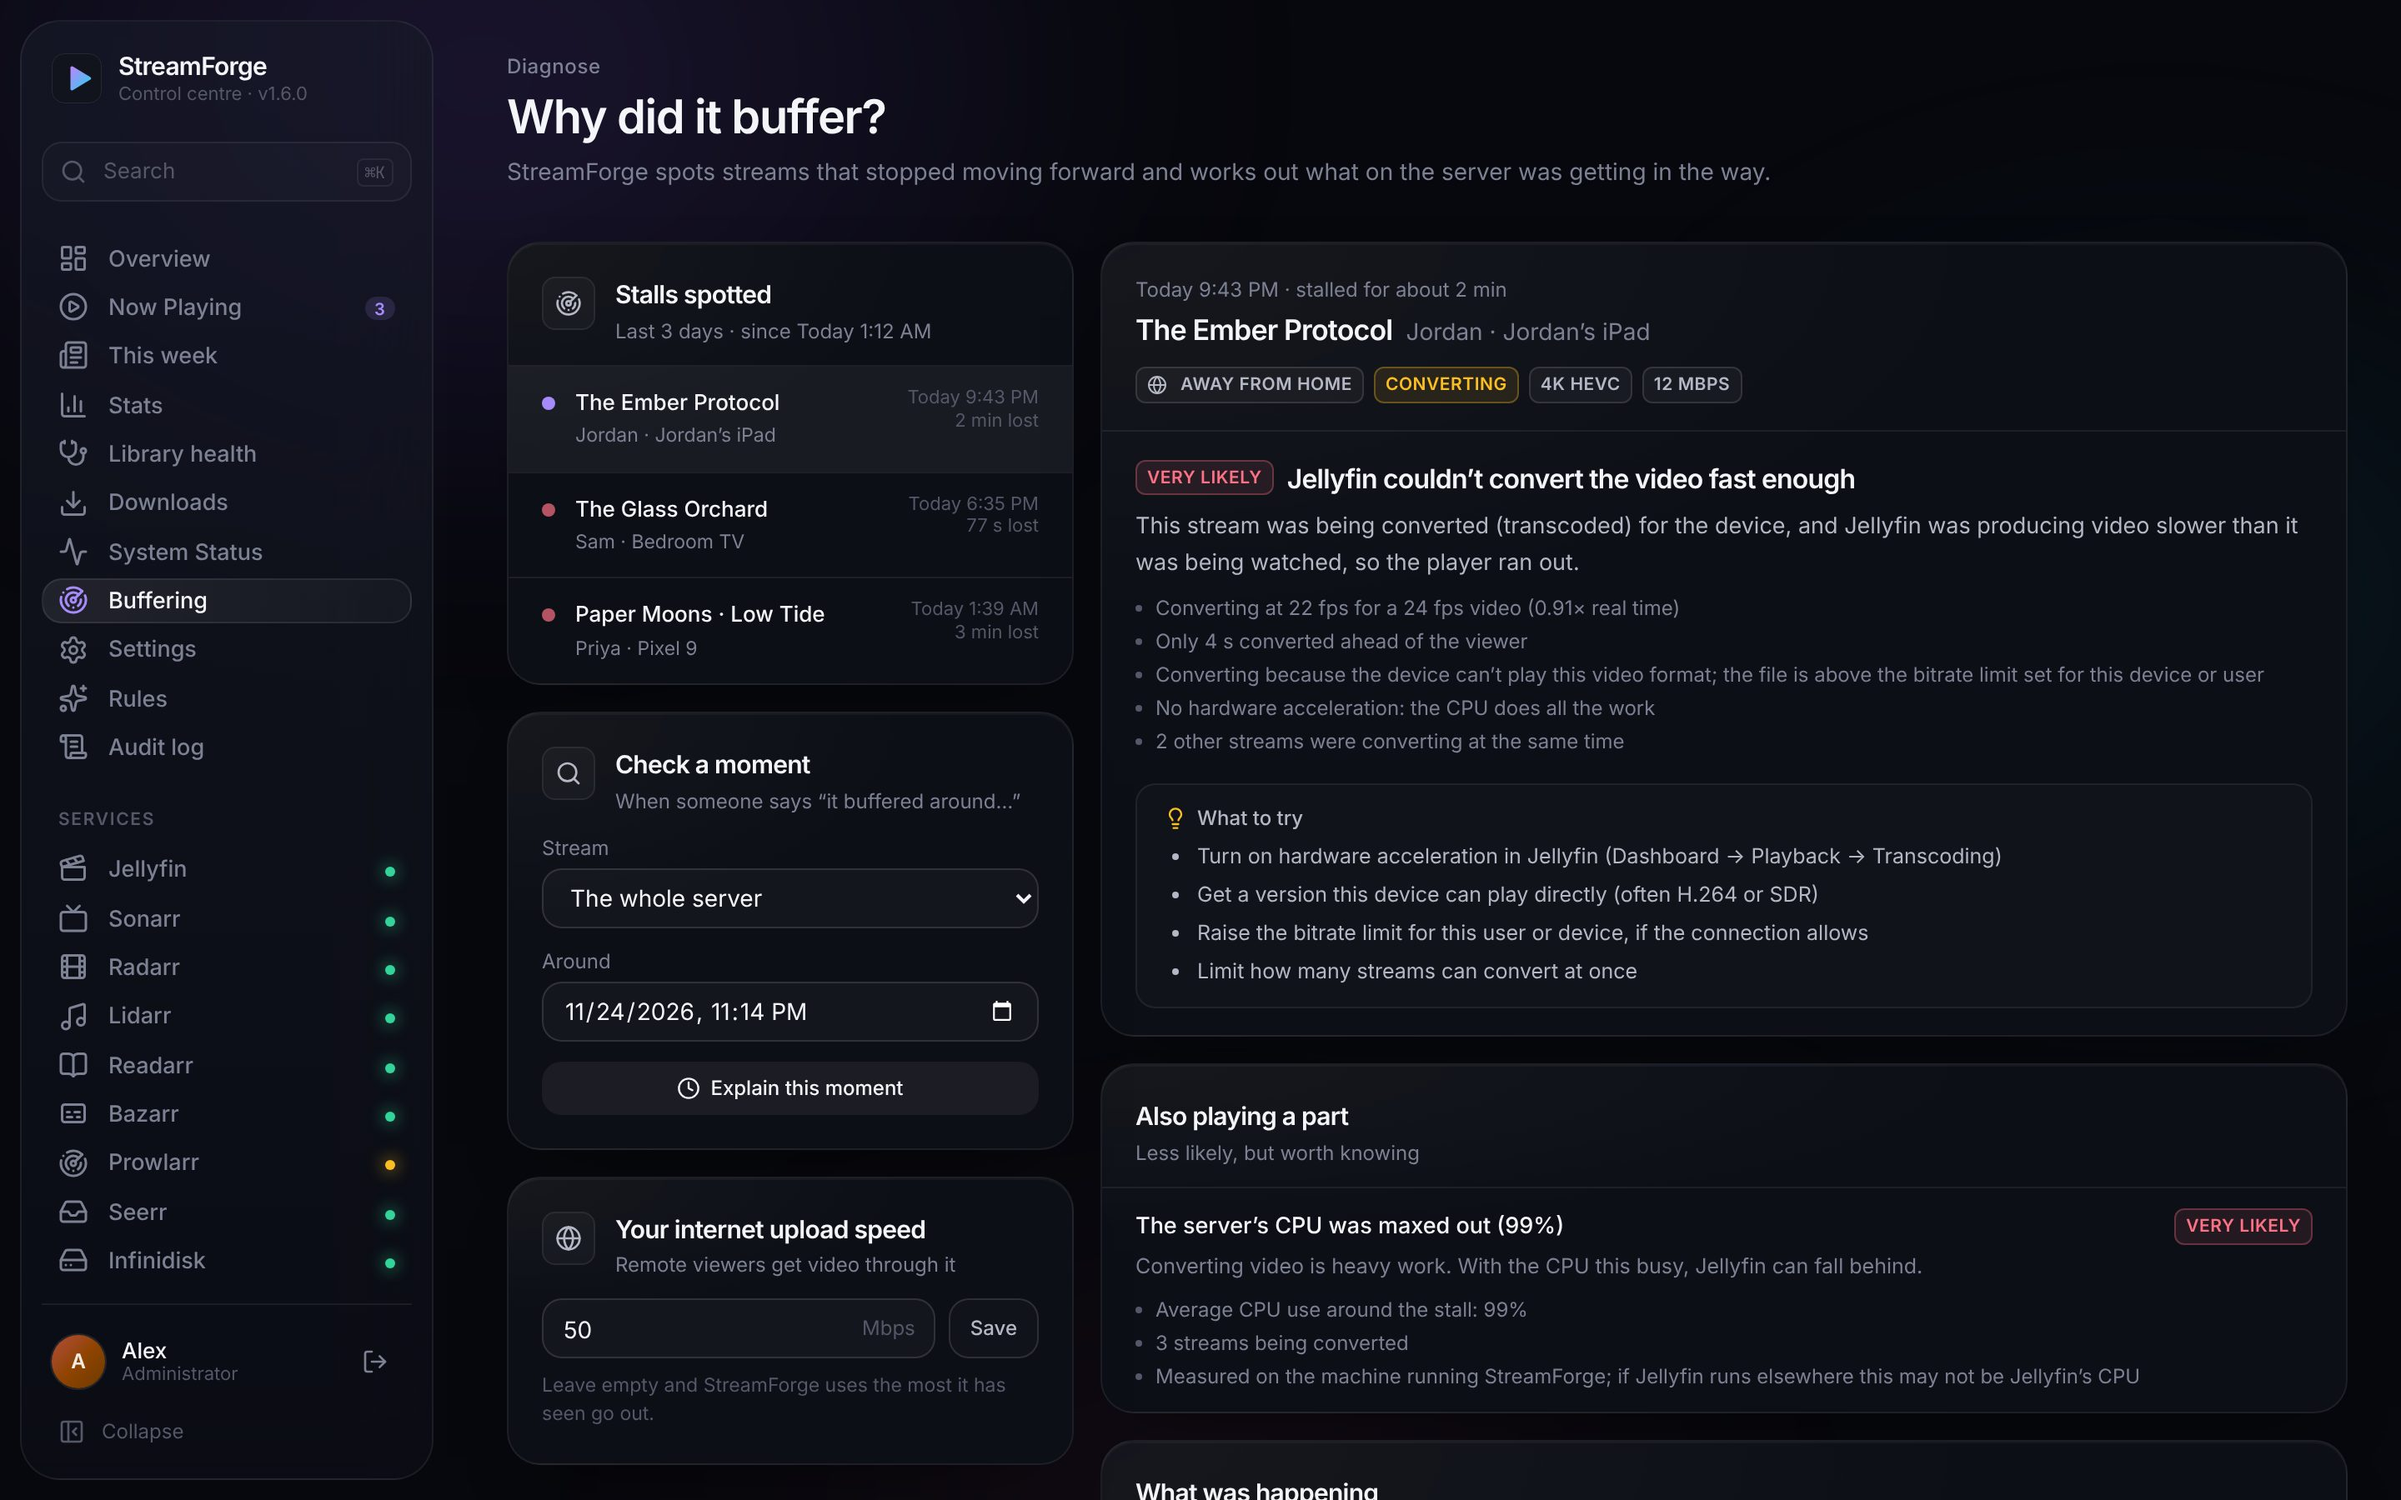
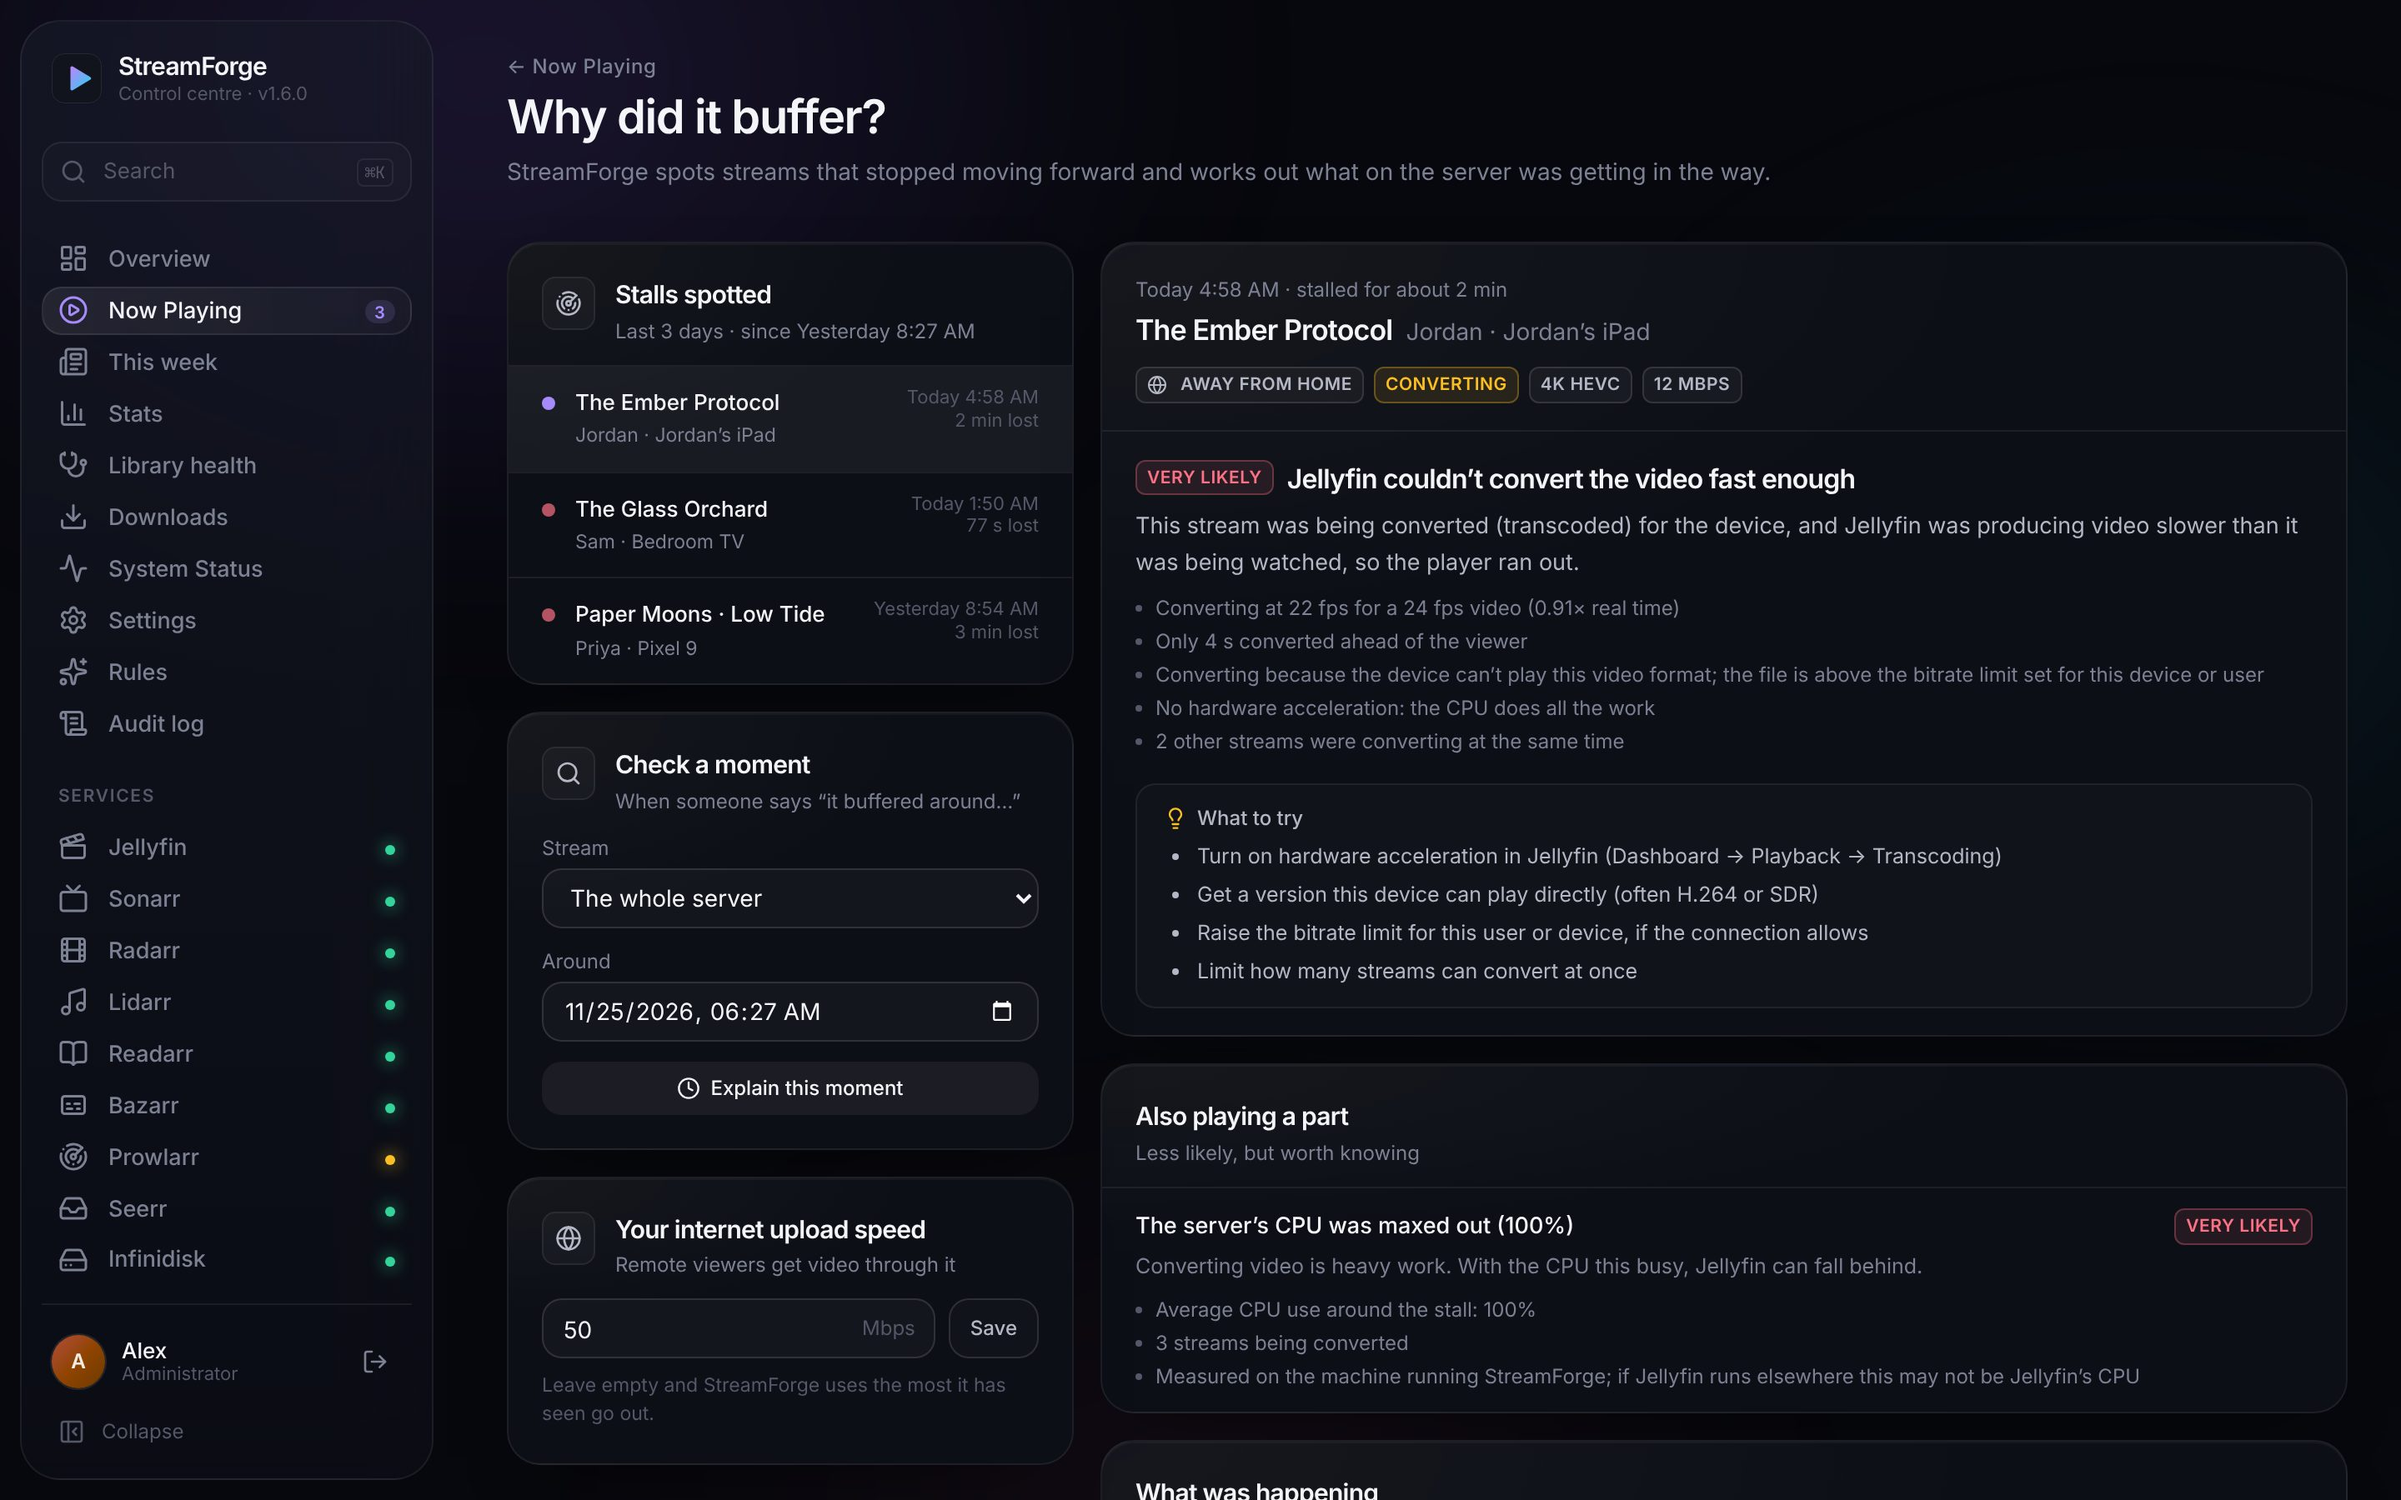
refactor: open the buffering diagnosis from Now Playing
The sidebar had a "Buffering" item for a page admins open now and then.
It now lives at /now-playing/buffering, opened from a "Why did it
buffer?" button on Now Playing that shows how many streams stalled in the
last day. Now Playing stays highlighted in the sidebar while it's open,
and ⌘K can still jump straight to it.

Claude-Session: https://claude.ai/code/session_01FvSRRoZoKrJvLdg5wmccnJ

diff --git a/src/pages/NowPlaying.tsx b/src/pages/NowPlaying.tsx
@@ -1,5 +1,6 @@
 import { AnimatePresence } from 'motion/react';
-import { PlayCircle, Repeat, Zap } from 'lucide-react';
+import { Link } from 'react-router';
+import { PlayCircle, Radar, Repeat, Zap } from 'lucide-react';
 import { useNowPlaying } from '@/hooks/queries';
 import { PageHeader } from '@/components/layout/PageHeader';
 import { StreamCard } from '@/components/widgets/StreamCard';
@@ -9,6 +10,7 @@ import { Card } from '@/components/ui/Card';
 import { StatTile } from '@/components/ui/Stat';
 import { Loader } from '@/components/ui/Loader';
 import { useAuth } from '@/hooks/useAuth';
+import { useDiagnosis } from '@/hooks/useDiagnosis';
 import { PlaybackGuardCard } from '@/components/widgets/PlaybackGuardCard';
 
 export default function NowPlayingPage() {
@@ -19,7 +21,12 @@ export default function NowPlayingPage() {
   const users = new Set(streams.map((s) => s.user.name)).size;
   return (
     <>
-      <PageHeader eyebrow="Jellyfin" title="Now Playing" description="Every active stream across your server, updated live." />
+      <PageHeader
+        eyebrow="Jellyfin"
+        title="Now Playing"
+        description="Every active stream across your server, updated live."
+        actions={user?.isAdmin ? <BufferingLink /> : undefined}
+      />
       <div className="mb-5 grid grid-cols-1 gap-3 sm:grid-cols-3">
         <StatTile label="Active streams" value={q.data ? streams.length : undefined} icon={PlayCircle} accent="var(--color-brand)" />
         <StatTile label="Direct play" value={q.data ? streams.length - transcodes : undefined} icon={Zap} accent="var(--color-ok)" hint={q.data ? `${users} ${users === 1 ? 'viewer' : 'viewers'}` : undefined} />
@@ -49,5 +56,25 @@ export default function NowPlayingPage() {
       )}
       {user?.isAdmin && <div className="mt-5"><PlaybackGuardCard /></div>}
     </>
+  );
+}
+
+/** Admins: the way into the buffering diagnosis, with stalls from the last day. */
+function BufferingLink() {
+  const d = useDiagnosis();
+  const recent = d.data?.incidents.filter((i) => i.start > Date.now() - 86_400_000).length ?? 0;
+  return (
+    <Link
+      to="/now-playing/buffering"
+      className="inline-flex h-9 items-center gap-2 rounded-xl border border-line-strong bg-white/[0.02] px-3.5 text-[13px] font-medium text-ink-2 transition hover:bg-white/[0.06] hover:text-ink"
+    >
+      <Radar className="size-4" />
+      Why did it buffer?
+      {recent > 0 && (
+        <span className="rounded-full bg-bad/15 px-1.5 py-px text-[10.5px] font-semibold text-bad tabular" title={`${recent} stall${recent === 1 ? '' : 's'} in the last 24 hours`}>
+          {recent}
+        </span>
+      )}
+    </Link>
   );
 }

diff --git a/src/components/layout/Sidebar.tsx b/src/components/layout/Sidebar.tsx
@@ -1,6 +1,6 @@
 import { NavLink } from 'react-router';
 import { AnimatePresence, motion } from 'motion/react';
-import { Activity, BarChart3, Download, LayoutDashboard, Newspaper, Stethoscope, LogOut, PanelLeftClose, PanelLeftOpen, PlayCircle, Radar, ScrollText, Search, Settings, Sparkles } from 'lucide-react';
+import { Activity, BarChart3, Download, LayoutDashboard, Newspaper, Stethoscope, LogOut, PanelLeftClose, PanelLeftOpen, PlayCircle, ScrollText, Search, Settings, Sparkles } from 'lucide-react';
 import { useAuth } from '@/hooks/useAuth';
 import { useCanSee, useHealth, useNowPlaying, useServiceConfig } from '@/hooks/queries';
 import { jfUserImage } from '@/lib/api';
@@ -151,7 +151,6 @@ export function Sidebar({
         {canSee('library') && <NavItem to="/library" icon={Stethoscope} label="Library health" collapsed={collapsed} onNavigate={onNavigate} />}
         {canSee('downloads') && config.data?.downloadClients && <NavItem to="/downloads" icon={Download} label="Downloads" collapsed={collapsed} onNavigate={onNavigate} />}
         {canSee('system') && <NavItem to="/system" icon={Activity} label="System Status" collapsed={collapsed} onNavigate={onNavigate} />}
-        {user?.isAdmin && <NavItem to="/diagnose" icon={Radar} label="Buffering" collapsed={collapsed} onNavigate={onNavigate} />}
         {user?.isAdmin && <NavItem to="/settings" icon={Settings} label="Settings" collapsed={collapsed} onNavigate={onNavigate} />}
         {user?.isAdmin && <NavItem to="/rules" icon={Sparkles} label="Rules" collapsed={collapsed} onNavigate={onNavigate} />}
         {user?.isAdmin && <NavItem to="/audit" icon={ScrollText} label="Audit log" collapsed={collapsed} onNavigate={onNavigate} />}

diff --git a/src/components/layout/CommandPalette.tsx b/src/components/layout/CommandPalette.tsx
@@ -16,6 +16,7 @@ import {
   Search,
   Send,
   Settings,
+  Radar,
   Sparkles,
   Stethoscope,
   UserRound,
@@ -55,6 +56,7 @@ function usePages(): PageCmd[] {
     if (user?.isAdmin) {
       out.push({ key: 'p:/settings', label: 'Settings', path: '/settings', icon: Settings, keywords: 'configure services api key notifications backup' });
       out.push({ key: 'p:/audit', label: 'Audit log', path: '/audit', icon: ScrollText, keywords: 'security history changes' });
+      out.push({ key: 'p:/now-playing/buffering', label: 'Why did it buffer?', path: '/now-playing/buffering', icon: Radar, keywords: 'buffering stall lag stutter diagnose' });
       out.push({ key: 'p:/rules', label: 'Rules', path: '/rules', icon: Sparkles, keywords: 'automation alerts if then' });
     }
     for (const id of Object.keys(SERVICES) as ServiceId[]) {

diff --git a/src/pages/Diagnose.tsx b/src/pages/Diagnose.tsx
@@ -1,3 +1,4 @@
+import { Link } from 'react-router';
 import { useEffect, useMemo, useState, type FormEvent } from 'react';
 import { CartesianGrid, Line, LineChart, ReferenceArea, ReferenceLine, ResponsiveContainer, Tooltip, XAxis, YAxis } from 'recharts';
 import { CircleAlert, Clock, Globe, House, Lightbulb, Radar, Search, ShieldAlert } from 'lucide-react';
@@ -68,7 +69,7 @@ export default function DiagnosePage() {
   return (
     <>
       <PageHeader
-        eyebrow="Diagnose"
+        eyebrow={<Link to="/now-playing" className="transition hover:text-ink">← Now Playing</Link>}
         title="Why did it buffer?"
         description="StreamForge spots streams that stopped moving forward and works out what on the server was getting in the way."
       />

diff --git a/src/App.tsx b/src/App.tsx
@@ -108,7 +108,7 @@ const router = createBrowserRouter([
       { path: '/library', element: page(<LibraryHealth />, 'library') },
       { path: '/settings', element: page(<Settings />) },
       { path: '/audit', element: page(<Audit />) },
-      { path: '/diagnose', element: page(<Diagnose />) },
+      { path: '/now-playing/buffering', element: page(<Diagnose />) },
       { path: '/me', element: page(<Me />) },
       { path: '/media/jellyfin/:id', element: page(<JellyfinMedia />) },
       { path: '/media/:type/:id', element: page(<Media />) },

diff --git a/README.md b/README.md
@@ -176,7 +176,8 @@ server.
   When nothing on the server stands out, it says so: the cause is then the
   viewer's Wi-Fi, connection or device. When someone reports buffering, pick
   their stream and roughly when, and StreamForge finds the nearest stall.
-  Admins only; needs a Jellyfin API key. Set your upload speed on the page for
+  Open it from **Why did it buffer?** on the Now Playing page (admins only;
+  needs a Jellyfin API key). Set your upload speed on the page for
   sharper results (otherwise the highest upload seen is used).
 - **Rules.** Simple automations: if a disk is nearly full, pause the download
   clients; if downloads stall, run the cleanup; if a service stays down,
